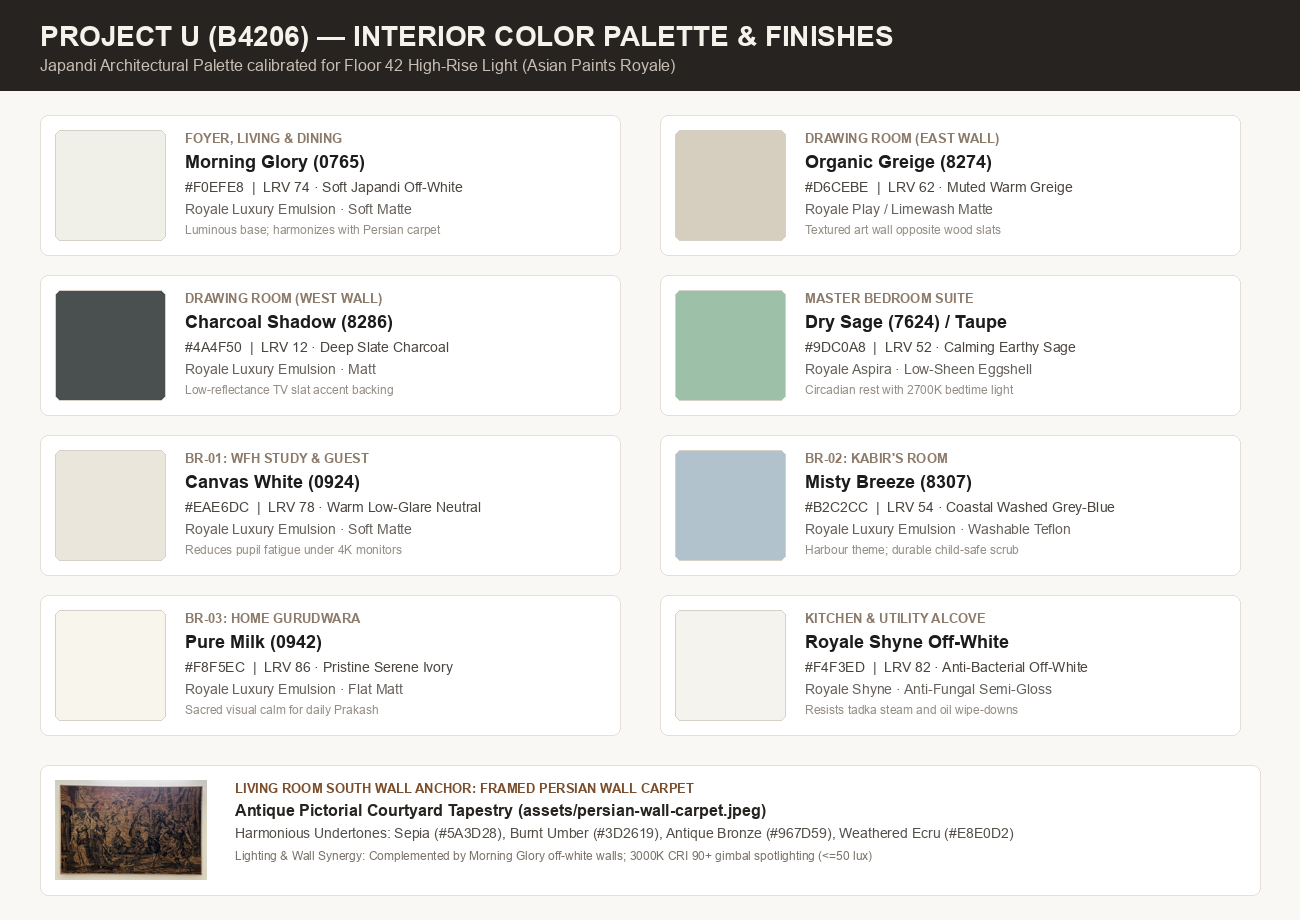
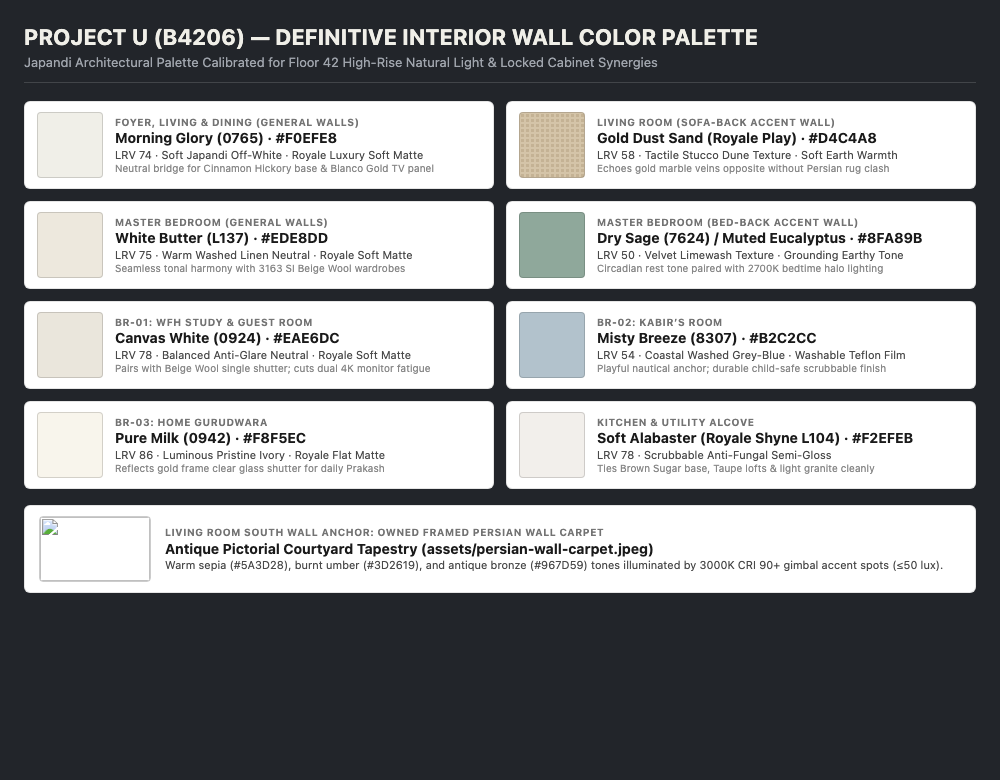
sync: update Project U notes (2026-10-16 23:15:11)

diff --git a/content/u-setup-interiors.md b/content/u-setup-interiors.md
@@ -53,16 +53,18 @@ updated: 2026-10-16
 
 ![Project U Definitive Room Color Palette](assets/u-room-color-palette.png)
 
-| Room / Zone | Recommended Tone & Code (Asian Paints) | Swatch | Interior Designer Rationale & Lighting Synergy |
+| Room / Zone | Recommended Tone & Code (Asian Paints) | Swatch | Interior Designer Rationale & Cabinet Synergy |
 | :--- | :--- | :--- | :--- |
-| **Foyer, Living & Dining** | **Morning Glory (0765)** (`#F0EFE8`, LRV 74) | [View](assets/swatches/swatch-living-dining.png) | Japandi warm neutral off-white. Serves as a calm, luminous canvas for the owned **Persian Wall Carpet** (`assets/persian-wall-carpet.jpeg`) on the Living South wall, pulling out its warm sepia, walnut, and antique bronze tones without color clash. |
+| **Foyer, Living & Dining** | **Morning Glory (0765)** (`#F0EFE8`, LRV 74) | [View](assets/swatches/swatch-living-dining.png) | Japandi warm neutral off-white. Bridges `424 1D Cinnamon Hickory` base unit and `4929 LU Blanco Gold Marble` TV panel, providing a calm canvas for the owned Persian carpet. |
+| **Living Sofa-Back Accent** | **Gold Dust Sand Texture (Royale Play)** (`#D4C4A8`, LRV 58) | [View](assets/swatches/swatch-living-sofa-texture.png) | Tactile Dune plaster echoing gold veining of `4929 LU` marble panel across room without clashing with Persian rug. |
 | **Drawing Room (East Wall)** | **Organic Greige / Limewash (8274)** (`#D6CEBE`, LRV 62) | [View](assets/swatches/swatch-drawing-east.png) | Breathable textured matte plaster/limewash backdrop for art; grounds the seating area opposite the dark wood fluting. |
 | **Drawing Room (West Wall)** | **Charcoal Shadow (8286)** (`#4A4F50`, LRV 12) | [View](assets/swatches/swatch-drawing-west.png) | Low-reflectance accent panel behind vertical timber slats; absorbs ambient spill around 65" OLED display. |
-| **Master Bedroom** | **Dry Sage (7624) / Smoked Taupe** (`#9DC0A8`, LRV 52) | [View](assets/swatches/swatch-master-bed.png) | Earthy grounding tone harmonizing with 2700K warm bedtime light. Low sensory stimulation for deep sleep. |
-| **BR-01 (Study / Guest)** | **Canvas White (0924)** (`#EAE6DC`, LRV 78) | [View](assets/swatches/swatch-study-br01.png) | Balanced neutral with subtle yellow/grey undertone; cuts eye fatigue and glare on dual 4K monitors. |
-| **BR-02 (Kabir's Room)** | **Misty Breeze (8307)** (`#B2C2CC`, LRV 54) | [View](assets/swatches/swatch-kabir-br02.png) | Desaturated coastal grey-blue. Playful nautical theme that grows gracefully with child; washable Teflon film. |
-| **BR-03 (Home Gurudwara)** | **Pure Milk (0942)** (`#F8F5EC`, LRV 86) | [View](assets/swatches/swatch-gurudwara-br03.png) | Pure, serene, sacred environment. Flat unadorned matte surface for respectful daily Prakash. |
-| **Kitchen & Utility** | **Royale Shyne Off-White** (`#F4F3ED`, LRV 82) | [View](assets/swatches/swatch-kitchen-utility.png) | Fungal-resistant, scrubbable high-durability finish resisting oil vapor and yellowing near cooking zones. |
+| **Master Bedroom (General)** | **White Butter (L137)** (`#EDE8DD`, LRV 75) | [View](assets/swatches/swatch-master-bed-walls.png) | Washed linen tone harmonizing tonally with `3163 SI Beige Wool` wardrobes and dresser. |
+| **Master Bedroom (Bed-Back)** | **Dry Sage (7624) / Muted Eucalyptus** (`#8FA89B`, LRV 50) | [View](assets/swatches/swatch-master-bed.png) | Bed-back texture paint. Earthy grounding tone for circadian rest under 2700K bedtime lighting. |
+| **BR-01 (Study / Guest)** | **Canvas White (0924)** (`#EAE6DC`, LRV 78) | [View](assets/swatches/swatch-study-br01.png) | Balanced anti-glare neutral pairing with `3163 SI Beige Wool` single shutter; cuts dual 4K monitor fatigue. |
+| **BR-02 (Kabir's Room)** | **Misty Breeze (8307)** (`#B2C2CC`, LRV 54) | [View](assets/swatches/swatch-kabir-br02.png) | Desaturated coastal grey-blue. Playful nautical anchor paired with light oak; washable Teflon film. |
+| **BR-03 (Home Gurudwara)** | **Pure Milk (0942)** (`#F8F5EC`, LRV 86) | [View](assets/swatches/swatch-gurudwara-br03.png) | Luminous pristine ivory reflecting gold-framed clear glass shutter for daily Prakash. |
+| **Kitchen & Utility** | **Soft Alabaster (Royale Shyne L104)** (`#F2EFEB`, LRV 78) | [View](assets/swatches/swatch-kitchen-utility.png) | Scrubbable finish tying `3174 LU Brown Sugar` base, `158 LU Taupe` lofts, and light granite cleanly. |
 
 ---
 
@@ -70,16 +72,18 @@ updated: 2026-10-16
 
 **Answer:** Warm wood-grain and matte neutral laminate palette finalized with Homz Interio (`0.8 mm off-white` internal liner throughout; soft-close hinges standard excluding lofts).
 
-| Zone / Joinery Unit | Main Shutter Finish & Code | Accent / Niche Tone | Hardware & Profile Standard | Reddit & SME Failure-Mode Guardrail |
-| :--- | :--- | :--- | :--- | :--- |
-| **Living TV Unit & Panel** | Base: `424 1D Cinnamon Hickory` | Panel: `4929 LU Blanco Gold Marble` + Sofa-back texture paint | Soft-close drawers; concealed cable raceway for Sonos Arc Ultra | Route 50mm PVC conduit behind `4929 LU` panel before mounting; exposed HDMI/power cords ruin marble laminate visual. |
-| **Dining Vanity, Bookshelf & Walk-in** | Bookshelf: `424 1D Cinnamon Hickory` · Walk-in: `3163 SI Beige Wool` | Common vanity with **Robot Vacuum bay**; room-matched hidden doors | Zero-threshold bottom garage (`≥150mm` height + internal 6A socket) | Standard vanity plinths trap robot vacuums; omit bottom toe-kick at dock bay. Use 4× SS304 ball-bearing hinges on heavy hidden doors to prevent sagging. |
-| **Kitchen Base & Tandem Drawers** | `3174 LU Brown Sugar` (Base carcasses) | Light-shade Indian granite worktop (owner-sourced) | 2 tandem below hob + 3 drawers each side of sink + 1 tandem replacing wicker | Homz quotes normal-close channels as standard; mandate soft-close 50–70kg tandem runners in contract rider. Drill rear air vents in potato/onion drawer. |
-| **Kitchen Wall Units & Lofts** | `158 LU Taupe` (Overheads & lofts) | `0.8 mm Off-White` internal laminate | Soft-close hinges on wall units; standard stays on lofts | Seal sink-base floor panel with aluminum foil tape / PVC mat to protect `0.8 mm` liner from RO/trap drips. |
-| **Master Bedroom (MBR)** | `3163 SI Beige Wool` (Wardrobes & Dresser) | Tall dresser with full-height dome mirror + Bed-back texture paint | Soft-close hinges; internal tension straightener on tall doors | Anchor full-height dresser mirror to 12mm BWP ply backing with neutral-cure silicone. |
-| **GBR / BR-01 (Study Room)** | `3163 SI Beige Wool` | Single shutter shifted toward study unit + dome mirror above | Soft-close hinges; concealed wire pass-through at study edge | Ensure shifted shutter clears standing desk travel range (72–120 cm height) without collision. |
-| **GBR-2 / BR-03 (Gurudwara)** | `3163 SI Beige Wool` | Gold frame with clear glass middle shutter | Soft-close hinges; dust seal strip on glass frame | Toughened 5mm clear glass required inside gold profile to prevent rattle during balcony cross-breeze. |
-| **KBR (Kabir) & Washrooms** | **TBD** (Recommend 70/20/10 neutral rule for KBR) | Store room: Overhead loft included in scope | Child-safe soft-close dampers on all KBR drawers | Reject cartoon laminates in KBR; mandate BWP marine ply + waterproof PVC edge tape for all washroom vanity cabinets. |
+![Project U Cabinet & Joinery Laminate Palette](assets/u-cabinet-laminate-palette.png)
+
+| Zone / Joinery Unit | Main Shutter Finish & Code | Swatch | Accent / Niche Tone | Hardware & Profile Standard | Reddit & SME Failure-Mode Guardrail |
+| :--- | :--- | :--- | :--- | :--- | :--- |
+| **Living TV Unit & Panel** | Base: `424 1D Cinnamon Hickory` | [View Base](assets/swatches/laminate-424-cinnamon-hickory.png) · [View Panel](assets/swatches/laminate-4929-blanco-gold.png) | Panel: `4929 LU Blanco Gold Marble` + Sofa-back texture paint | Soft-close drawers; concealed cable raceway for Sonos Arc Ultra | Route 50mm PVC conduit behind `4929 LU` panel before mounting; exposed HDMI/power cords ruin marble laminate visual. |
+| **Dining Vanity, Bookshelf & Walk-in** | Bookshelf: `424 1D Cinnamon Hickory` · Walk-in: `3163 SI Beige Wool` | [View Wood](assets/swatches/laminate-424-cinnamon-hickory.png) · [View Wardrobe](assets/swatches/laminate-3163-beige-wool.png) | Common vanity with **Robot Vacuum bay**; room-matched hidden doors | Zero-threshold bottom garage (`≥150mm` height + internal 6A socket) | Standard vanity plinths trap robot vacuums; omit bottom toe-kick at dock bay. Use 4× SS304 ball-bearing hinges on heavy hidden doors to prevent sagging. |
+| **Kitchen Base & Tandem Drawers** | `3174 LU Brown Sugar` (Base carcasses) | [View](assets/swatches/laminate-3174-brown-sugar.png) | Light-shade Indian granite worktop (owner-sourced) | 2 tandem below hob + 3 drawers each side of sink + 1 tandem replacing wicker | Homz quotes normal-close channels as standard; mandate soft-close 50–70kg tandem runners in contract rider. Drill rear air vents in potato/onion drawer. |
+| **Kitchen Wall Units & Lofts** | `158 LU Taupe` (Overheads & lofts) | [View](assets/swatches/laminate-158-taupe.png) | `0.8 mm Off-White` internal laminate ([View](assets/swatches/laminate-08-off-white.png)) | Soft-close hinges on wall units; standard stays on lofts | Seal sink-base floor panel with aluminum foil tape / PVC mat to protect `0.8 mm` liner from RO/trap drips. |
+| **Master Bedroom (MBR)** | `3163 SI Beige Wool` (Wardrobes & Dresser) | [View](assets/swatches/laminate-3163-beige-wool.png) | Tall dresser with full-height dome mirror + Bed-back texture paint | Soft-close hinges; internal tension straightener on tall doors | Anchor full-height dresser mirror to 12mm BWP ply backing with neutral-cure silicone. |
+| **GBR / BR-01 (Study Room)** | `3163 SI Beige Wool` | [View](assets/swatches/laminate-3163-beige-wool.png) | Single shutter shifted toward study unit + dome mirror above | Soft-close hinges; concealed wire pass-through at study edge | Ensure shifted shutter clears standing desk travel range (72–120 cm height) without collision. |
+| **GBR-2 / BR-03 (Gurudwara)** | `3163 SI Beige Wool` | [View](assets/swatches/laminate-3163-beige-wool.png) | Gold frame with clear glass middle shutter | Soft-close hinges; dust seal strip on glass frame | Toughened 5mm clear glass required inside gold profile to prevent rattle during balcony cross-breeze. |
+| **KBR (Kabir) & Washrooms** | **TBD** (Recommend 70/20/10 neutral rule for KBR) | — | Store room: Overhead loft included in scope | Child-safe soft-close dampers on all KBR drawers | Reject cartoon laminates in KBR; mandate BWP marine ply + waterproof PVC edge tape for all washroom vanity cabinets. |
 
 * **House-Wide Mirror Standard:** All mirrors feature a **dome-shaped top arch**. Use 5mm Saint-Gobain copper-free silver mirror bonded with neutral-cure alkoxy silicone (acidic silicone causes black edge rot).
 * **Edge-Banding Rule:** Apply 2.0 mm solid-color high-impact PVC edge tape via factory PUR hot-melt edge bander. Reject manual solvent glue on shutter edges.
